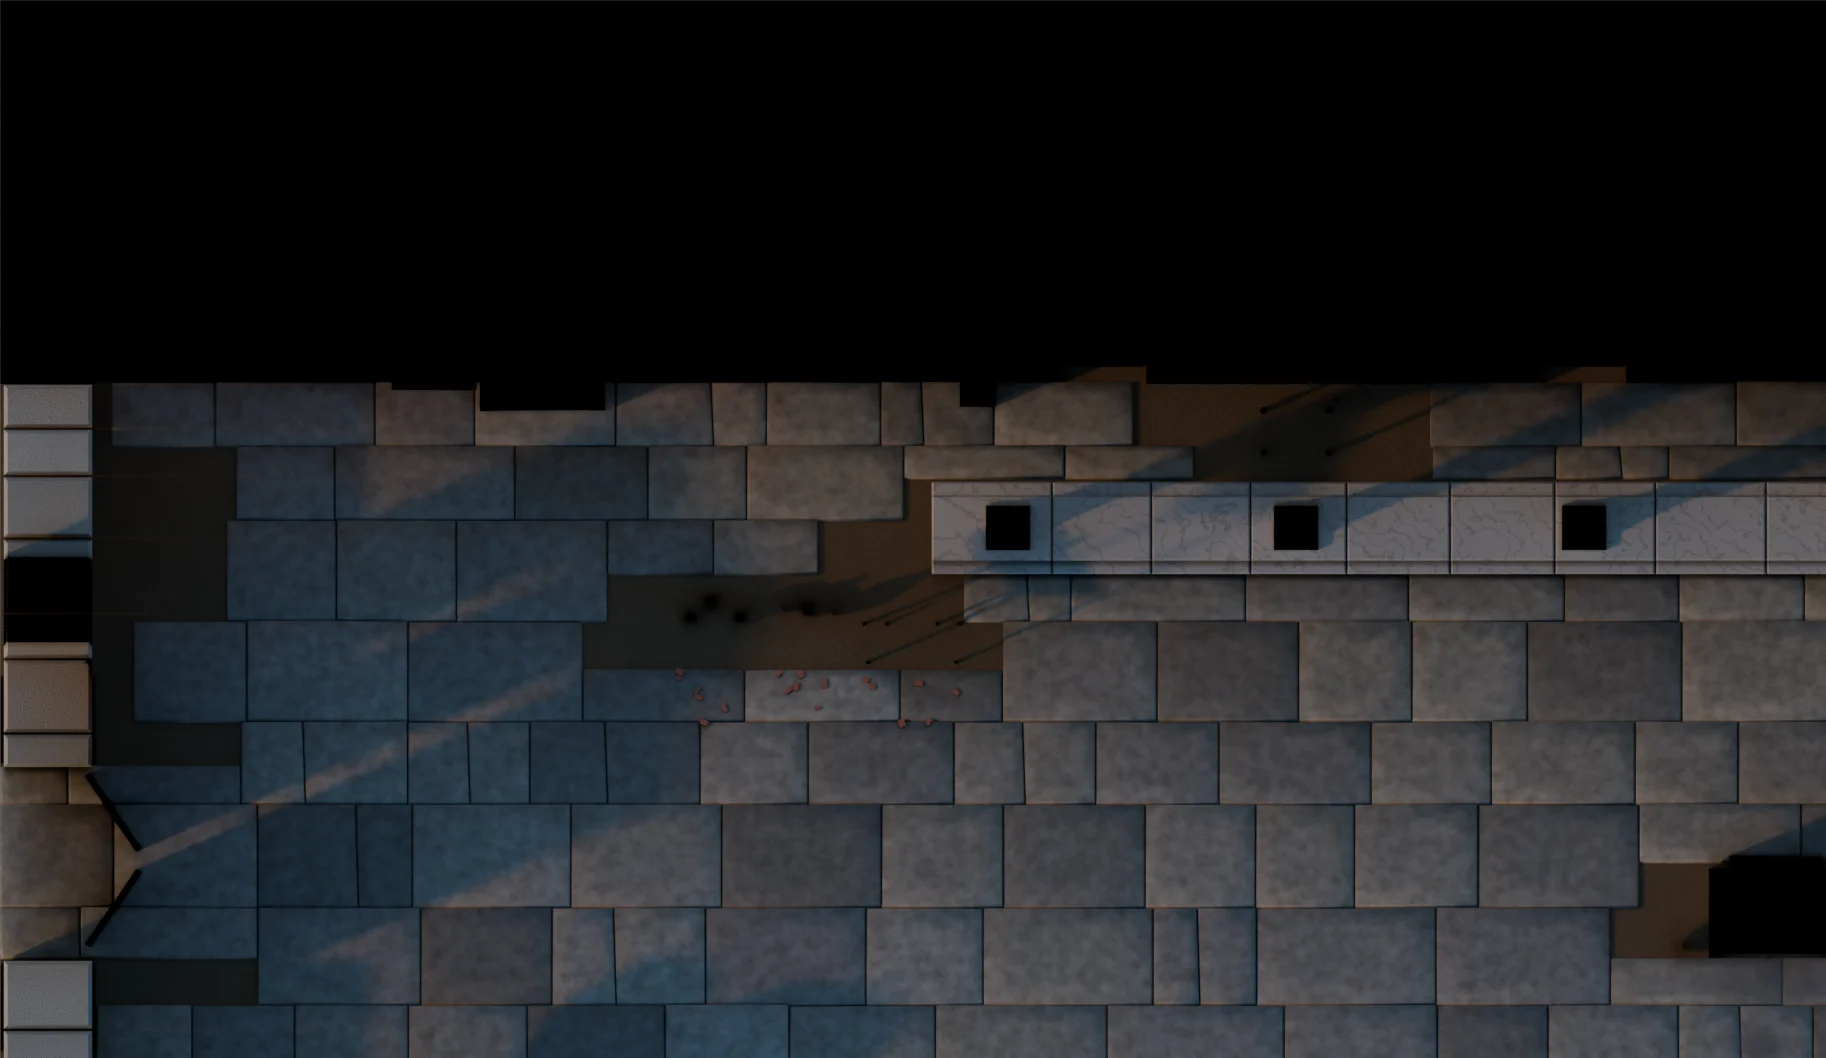
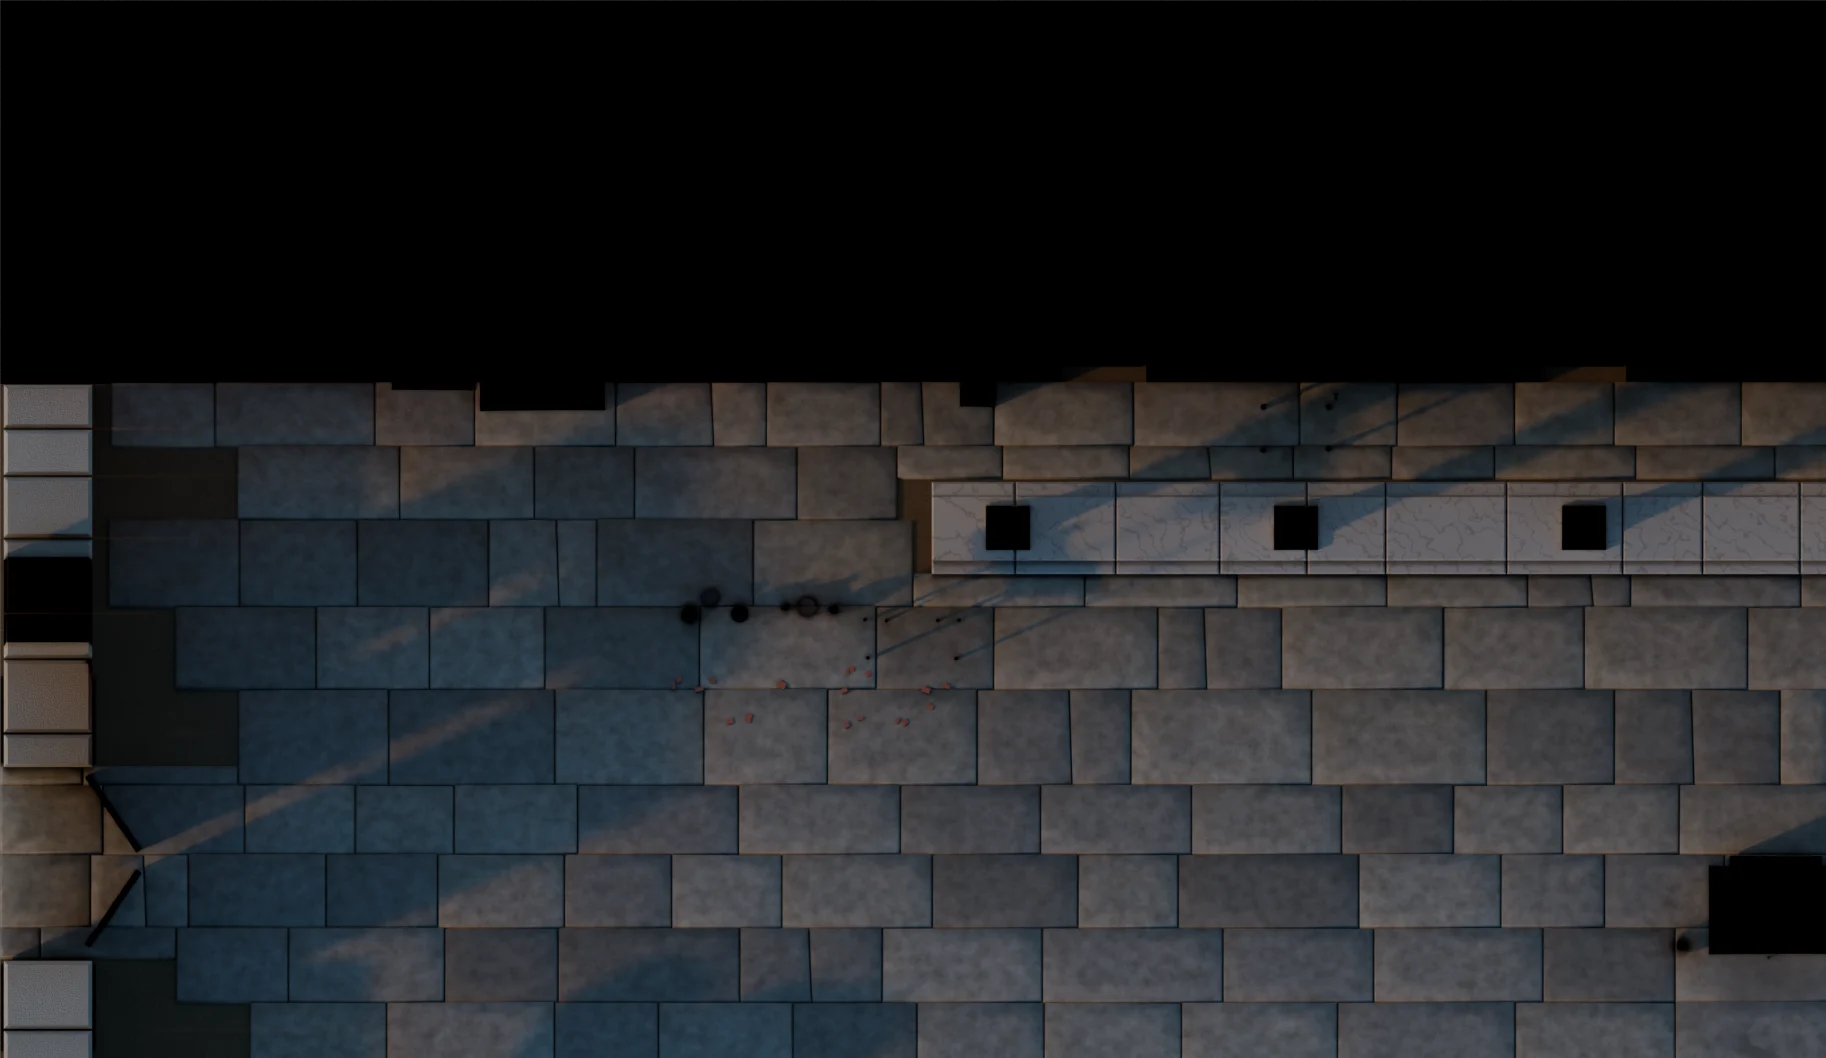
fix(art): stains without edges; the street paved under its stalls
Decals (the fullers' clay, dye splashes, wet floor and wet stone) were
rectangles, and the denoiser's albedo guide printed their outline on the
ground. They are now irregular ellipses whose rim lies where the stain has
faded to nothing; the fullers' clay fades from its centre, a trodden film
rather than patches. The street's paving now runs under its stalls, jars,
scribe's table and fountain instead of leaving bare earth there.
Re-rendered: the grounds of the street (both lights) and the workshop.

diff --git a/tools/art/lib/roman_town.py b/tools/art/lib/roman_town.py
@@ -302,10 +302,14 @@ class RomanTown:
         rng = self.rng
         bm, layer = self._rbm()
         stylobate = self._stylobate_rows()
+        # Stalls, jars, tables and the fountain stand on the paving.
+        under = ("stall", "jars", "table", "fountain")
+
         def paved(px, py):
             if any(a <= px <= b and s0 <= py <= s1 for a, b, s0, s1 in stylobate):
                 return False
-            return m.kind(int(math.floor(px)), int(math.floor(py))) in kinds
+            k = m.kind(int(math.floor(px)), int(math.floor(py)))
+            return k in kinds or k in under
 
         cells = [c for k in kinds for c in m.tiles(k)]
         first_x = min(c[0] for c in cells) if cells else 0
@@ -450,21 +454,11 @@ class RomanTown:
             return super().tile_sand()
         m = self.map
         rng = self.rng
-        clay = R.soft_decal("#e2dccc", 0.45, "fullers-clay")
+        clay = R.soft_decal("#e2dccc", 0.5, "fullers-clay", core=0.0)
         for x, y in m.tiles("sand"):
             for k in range(2):
-                bm = bmesh.new()
-                uv = bm.loops.layers.uv.new("UVMap")
-                cx, cy = x + rng.random(), y + rng.random()
-                a = rng.random() * math.pi
-                L, W = 0.45 + rng.random() * 0.45, 0.35 + rng.random() * 0.25
-                ca, sa = math.cos(a), math.sin(a)
-                corners = [(-L, -W), (L, -W), (L, W), (-L, W)]
-                vs = [bm.verts.new(self.P(cx + u * ca - v * sa, cy + u * sa + v * ca, 0.004)) for u, v in corners]
-                f = bm.faces.new(vs[::-1])
-                for loop, (u, v) in zip(f.loops, ((0, 1), (1, 1), (1, 0), (0, 0))):
-                    loop[uv].uv = (u, v)
-                self.to_ground(self._flat_decal(common.mesh_object(f"clay-{x}-{y}-{k}", bm, clay, None)))
+                L, W = 1.1 + rng.random() * 0.9, 0.9 + rng.random() * 0.6
+                self._decal(f"clay-{x}-{y}-{k}", x + rng.random(), y + rng.random(), L, W, rng.random() * math.pi, clay, 0.004)
         lib = self._library()
         import scatter
 

diff --git a/tools/art/lib/roman_rooms.py b/tools/art/lib/roman_rooms.py
@@ -411,15 +411,31 @@ class RomanRooms:
             self.to_ground(rug)
 
     def _decal(self, name, cx, cy, w, h, angle, mat, z=0.012):
-        """A soft stain lying on the ground or floor (UVs for soft_decal)."""
+        """A soft stain lying on the ground or floor: an irregular ellipse
+        (UVs for soft_decal: the centre at 0.5, its rim where the stain has
+        faded out). Not a rectangle: the denoiser's albedo guide sees a
+        decal's whole outline, so it must be a natural one."""
+        rng = self.rng
         bm = bmesh.new()
         uv = bm.loops.layers.uv.new("UVMap")
         ca, sa = math.cos(angle), math.sin(angle)
-        corners = [(-w / 2, -h / 2), (w / 2, -h / 2), (w / 2, h / 2), (-w / 2, h / 2)]
-        vs = [bm.verts.new(self.P(cx + u * ca - v * sa, cy + u * sa + v * ca, z)) for u, v in corners]
-        f = bm.faces.new(vs[::-1])
-        for loop, (u, v) in zip(f.loops, ((0, 1), (1, 1), (1, 0), (0, 0))):
-            loop[uv].uv = (u, v)
+        n = 36
+        ph = rng.random() * math.tau
+        centre = bm.verts.new(self.P(cx, cy, z))
+        ring = []
+        uvs = []
+        for k in range(n):
+            a = math.tau * k / n
+            r = 1.0 + 0.16 * math.sin(a * 3 + ph) + 0.08 * math.sin(a * 5 + ph * 1.7)
+            u, v = math.cos(a) * w / 2 * r, math.sin(a) * h / 2 * r
+            ring.append(bm.verts.new(self.P(cx + u * ca - v * sa, cy + u * sa + v * ca, z)))
+            # The rim sits where soft_decal has faded to nothing, whatever its ragged edge.
+            uvs.append((0.5 + math.cos(a) * 0.5, 0.5 + math.sin(a) * 0.5))
+        for k in range(n):
+            kk = (k + 1) % n
+            f = bm.faces.new((centre, ring[kk], ring[k]))
+            for loop, t in zip(f.loops, ((0.5, 0.5), uvs[kk], uvs[k])):
+                loop[uv].uv = t
         return self.to_ground(self._flat_decal(common.mesh_object(name, bm, mat, None)))
 
     @staticmethod

diff --git a/tools/art/lib/roman_materials.py b/tools/art/lib/roman_materials.py
@@ -242,9 +242,11 @@ def puddle():
     return cached(("puddle",), build)
 
 
-def soft_decal(color, opacity=0.8, name=None):
+def soft_decal(color, opacity=0.8, name=None, core=0.35):
     """A stain lying in the ground or floor (spilt clay, a dye splash, wet
-    earth): its colour fading out to a ragged edge. Expects UVs 0-1."""
+    earth): its colour fading out to a ragged edge. Expects UVs 0-1.
+    `core`: how much of it is solid before it starts to fade (0: it fades
+    all the way from its centre, a film rather than a patch)."""
 
     def build():
         n = Nodes(name or f"decal-{color}-{opacity}")
@@ -256,13 +258,13 @@ def soft_decal(color, opacity=0.8, name=None):
         rag = n.noise(4.0, 4.0, 0.6, obj)
         wob = n.math("MULTIPLY", (n.math("SUBTRACT", (rag, "Fac"), 0.5), "Value"), 0.4)
         dd = n.math("ADD", (n.math("MULTIPLY", (d, "Value"), 2.0), "Value"), (wob, "Value"))
-        a = n.new("ShaderNodeMapRange", Value=(dd, "Value"), **{"From Min": 0.78, "From Max": 0.35, "To Min": 0.0, "To Max": opacity})
+        a = n.new("ShaderNodeMapRange", Value=(dd, "Value"), **{"From Min": 0.78, "From Max": core, "To Min": 0.0, "To Max": opacity})
         grain = n.noise(30.0, 3.0, 0.6, obj)
         col = n.mix((grain, "Fac"), shade(color, -0.1), shade(color, 0.08))
         n.bsdf(**{"Base Color": (col, 2), "Roughness": 0.85, "Alpha": (a, "Result")})
         return n.mat
 
-    return cached(("decal", color, opacity, name), build)
+    return cached(("decal", color, opacity, name, core), build)
 
 
 def steam():
